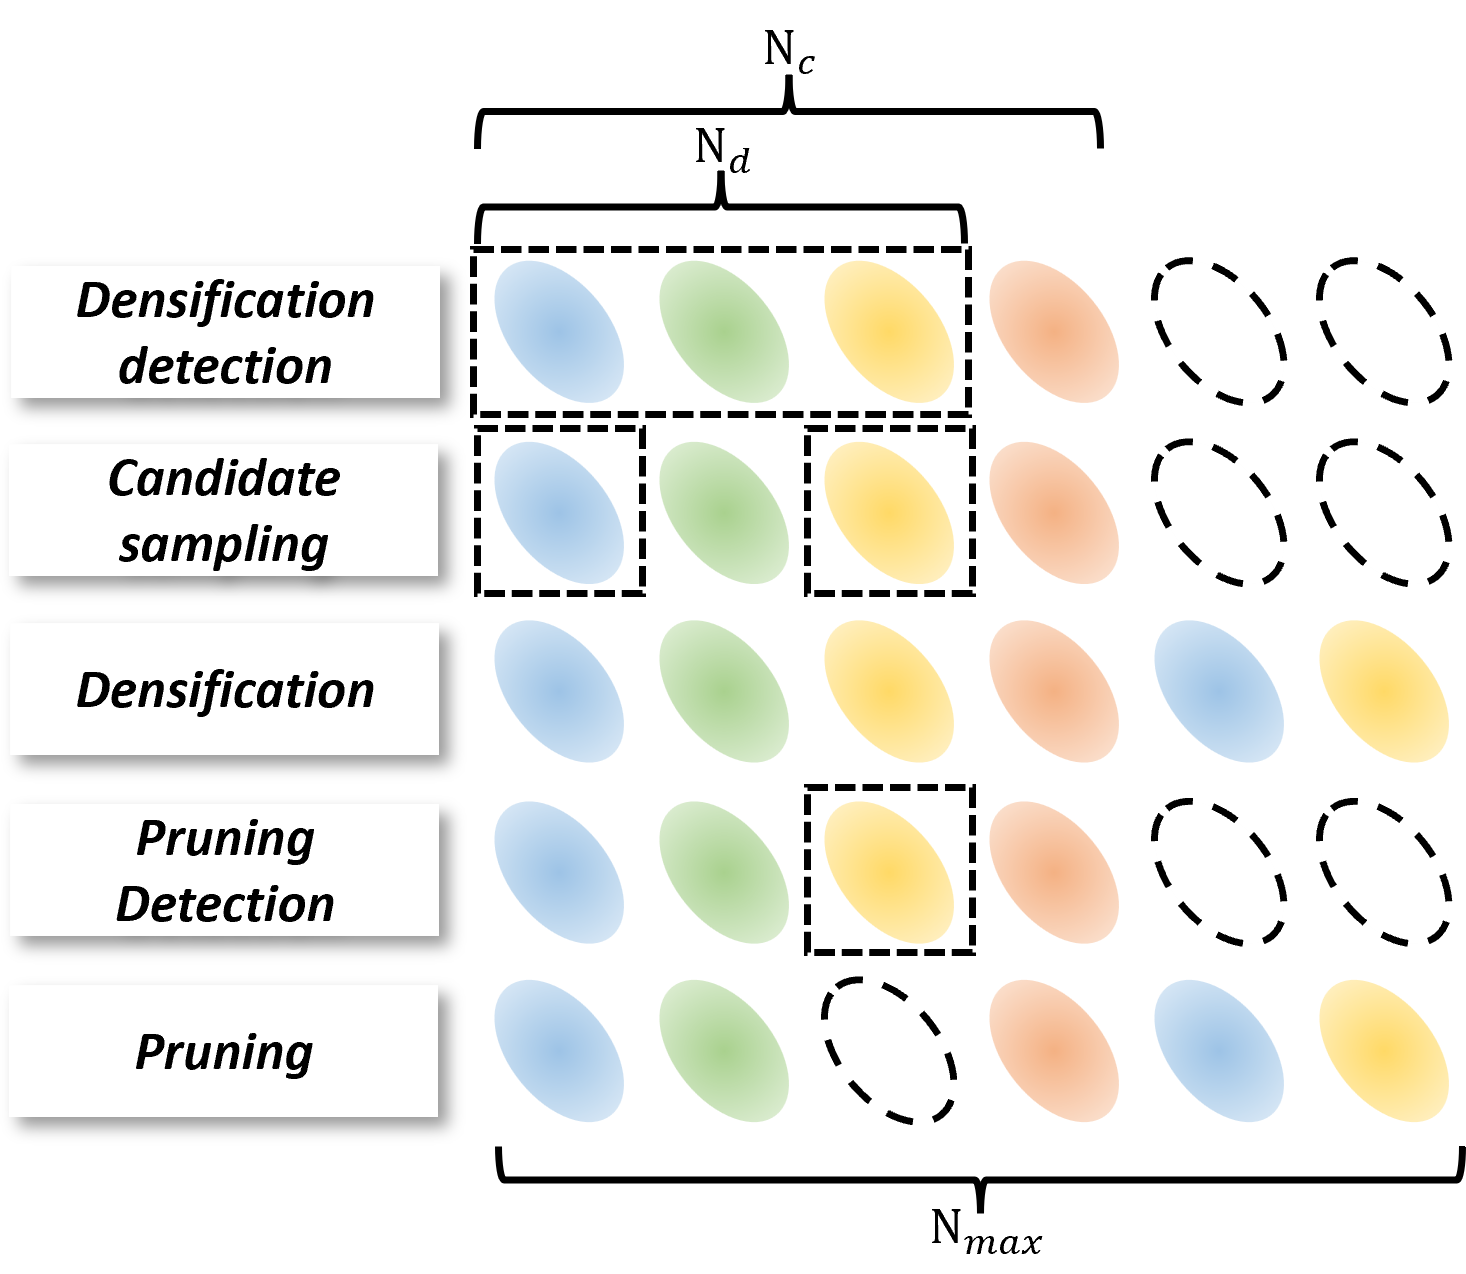
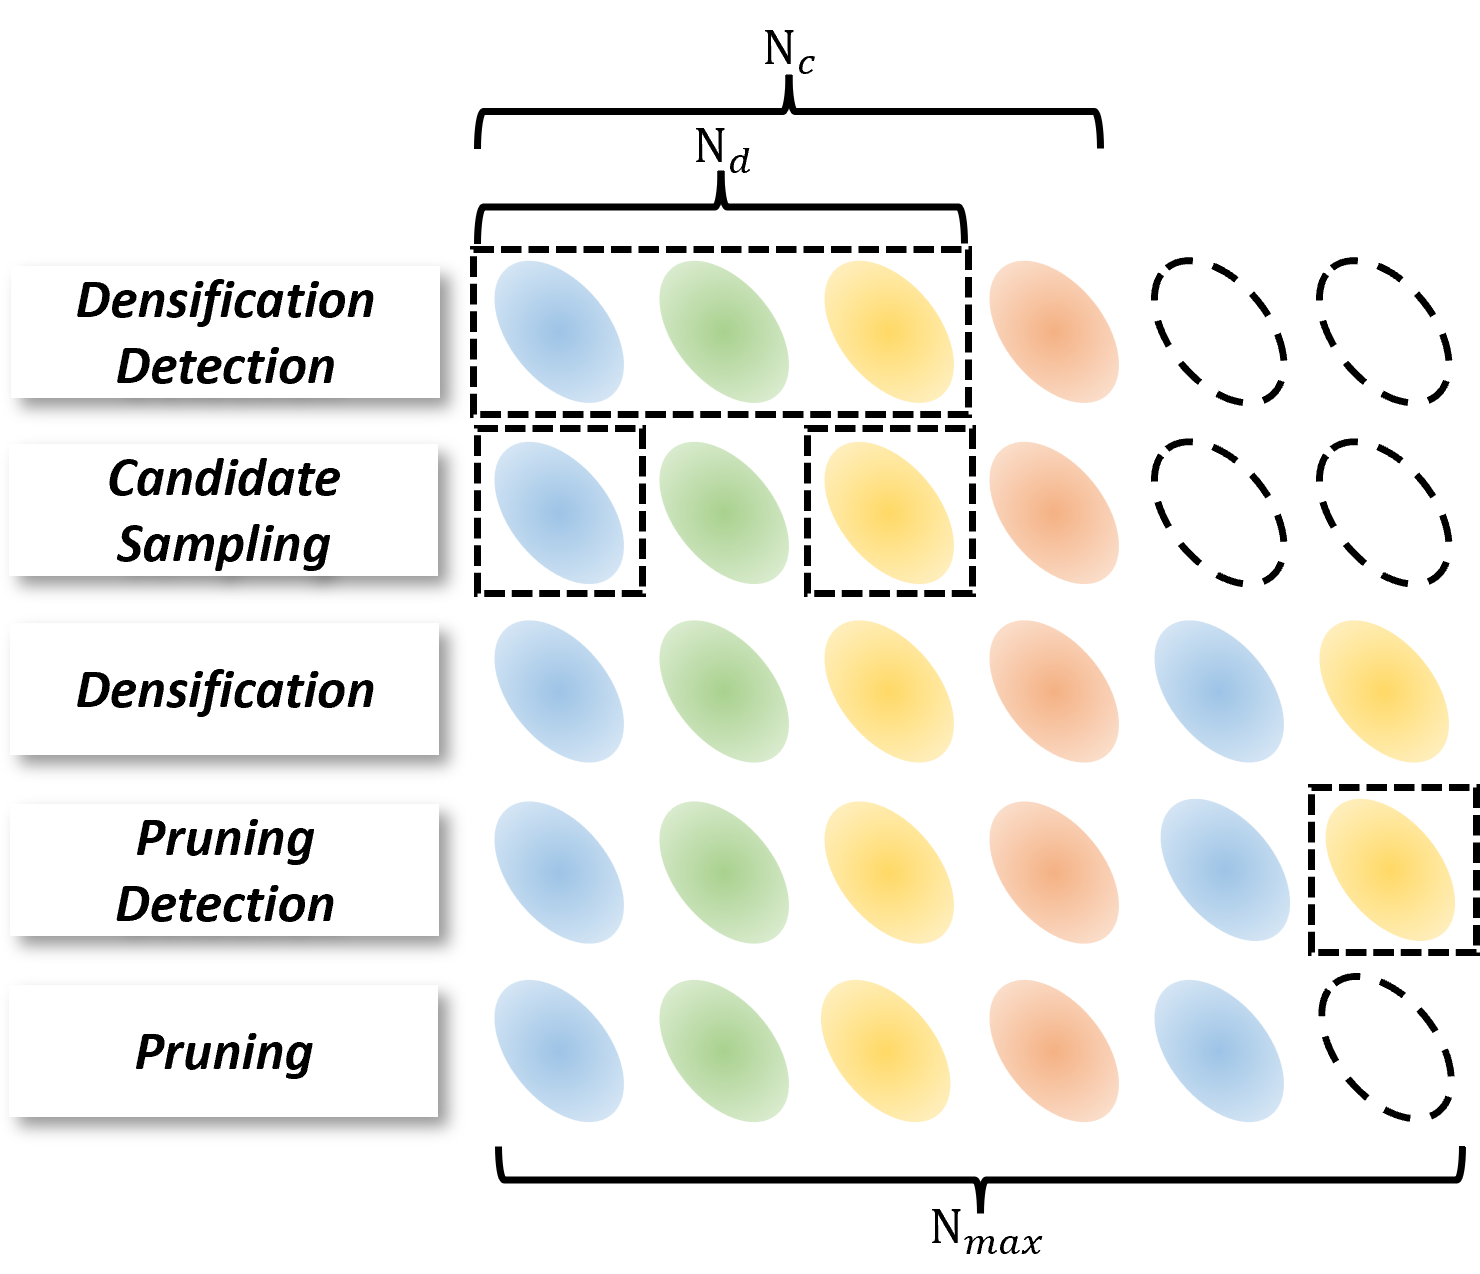
update abstract and pipeline

diff --git a/index.html b/index.html
@@ -39,6 +39,17 @@
   <script src="./static/js/bulma-carousel.min.js"></script>
   <script src="./static/js/bulma-slider.min.js"></script>
   <script src="./static/js/index.js"></script>
+  <script>  
+    window.MathJax = {  
+      tex: {  
+        inlineMath: [['$', '$'], ['\\(', '\\)']]  
+      },  
+      svg: {  
+        fontCache: 'global'  
+      }  
+    };  
+  </script>  
+  <script id="MathJax-script" async src="https://cdn.jsdelivr.net/npm/mathjax@3/es5/tex-mml-chtml.js"></script>      
 </head>
 <body>
 
@@ -184,7 +195,7 @@
         <h2 class="title is-3">Abstract</h2>
         <div class="content has-text-justified">
           <p>
-            3D Gaussian Splatting (GS) have achieved considerable improvement over Neural Radiance Fields in terms of 3D fitting fidelity and rendering speed. However, this  unstructured representation with scattered Gaussians poses a significant challenge for generative modeling. To address the problem, we introduce GaussianCube, a structured GS representation that is both powerful and efficient for generative modeling. We achieve this by first proposing a modified densification-constrained GS fitting algorithm which can yield high-quality fitting results using a fixed number of free Gaussians, and then re-arranging the Gaussians into a predefined voxel grid via Optimal Transport. The structured grid representation allows us to use standard 3D U-Net as our backbone in diffusion generative modeling without elaborate designs. Extensive experiments conducted on ShapeNet and OmniObject3D show that our model achieves state-of-the-art generation results both qualitatively and quantitatively, underscoring the potential of GaussianCube as a powerful and versatile 3D representation.
+            We introduce a radiance representation that is both structured and fully explicit and thus greatly facilitates 3D generative modeling. Existing radiance representations either require an implicit feature decoder, which significantly degrades the modeling power of the representation, or are spatially unstructured, making them difficult to integrate with mainstream 3D diffusion methods. We derive GaussianCube by first using a novel densification-constrained Gaussian fitting algorithm, which yields high-accuracy fitting using a fixed number of free Gaussians, and then rearranging these Gaussians into a predefined voxel grid via Optimal Transport. Since GaussianCube is a structured grid representation, it allows us to use standard 3D U-Net as our backbone in diffusion modeling without elaborate designs. More importantly, the high-accuracy fitting of the Gaussians allows us to achieve a high-quality representation with orders of magnitude fewer parameters than previous structured representations for comparable quality, ranging from one to two orders of magnitude. The compactness of GaussianCube greatly eases the difficulty of 3D generative modeling. Extensive experiments conducted on unconditional and class-conditioned object generation, digital avatar creation, and text-to-3D synthesis all show that our model achieves state-of-the-art generation results both qualitatively and quantitatively, underscoring the potential of GaussianCube as a highly accurate and versatile radiance representation for 3D generative modeling.
           </p>
         </div>
       </div>
@@ -214,7 +225,7 @@
         </div>
         <div class="content has-text-justified">
           <p>
-            First, we perform densification-constrained fitting to yield a fixed number of Gaussians. Specifically, if the current iteration comprises N_c Gaussians and N_d Gaussians need to be densified, we introduce a measure to prevent exceeding the predefined maximum of N_max Gaussians. This is achieved by selecting N_max - N_c Gaussians with the largest positional gradients from the N_d candidates for densification in cases where N_d > N_max - N_c. Otherwise, all N_d Gaussians are subjected to densification as in original Gaussian Splatting.
+            The fitting process encompasses several distinct stages: 1) Densification Detection: Assuming the current iteration includes $N_c$ Gaussians, we identify densification candidates by selecting those with view-space position gradient magnitudes exceeding a predefined threshold $\tau$. We denote the number of candidates as $N_d$. 2) Candidate sampling: To prevent exceeding the predefined maximum of $N_{\text{max}}$ Gaussians, we select $\min{(N_{\text{max}} - N_c, N_d)}$ Gaussians with the largest view-space positional gradients from the candidates for densification. 3) Densification: We modify the densification approach by alternating between cloning and splitting actions into separate steps. 4) Pruning Detection and Pruning: We identify and remove the Gaussians with $\alpha$ less than a small threshold $\epsilon$. After completing the fitting process, we pad Gaussians with $\alpha=0$ to reach the target count of $N_{\text{max}}$ without affecting the rendering results.
           </p>
         </div>
         
